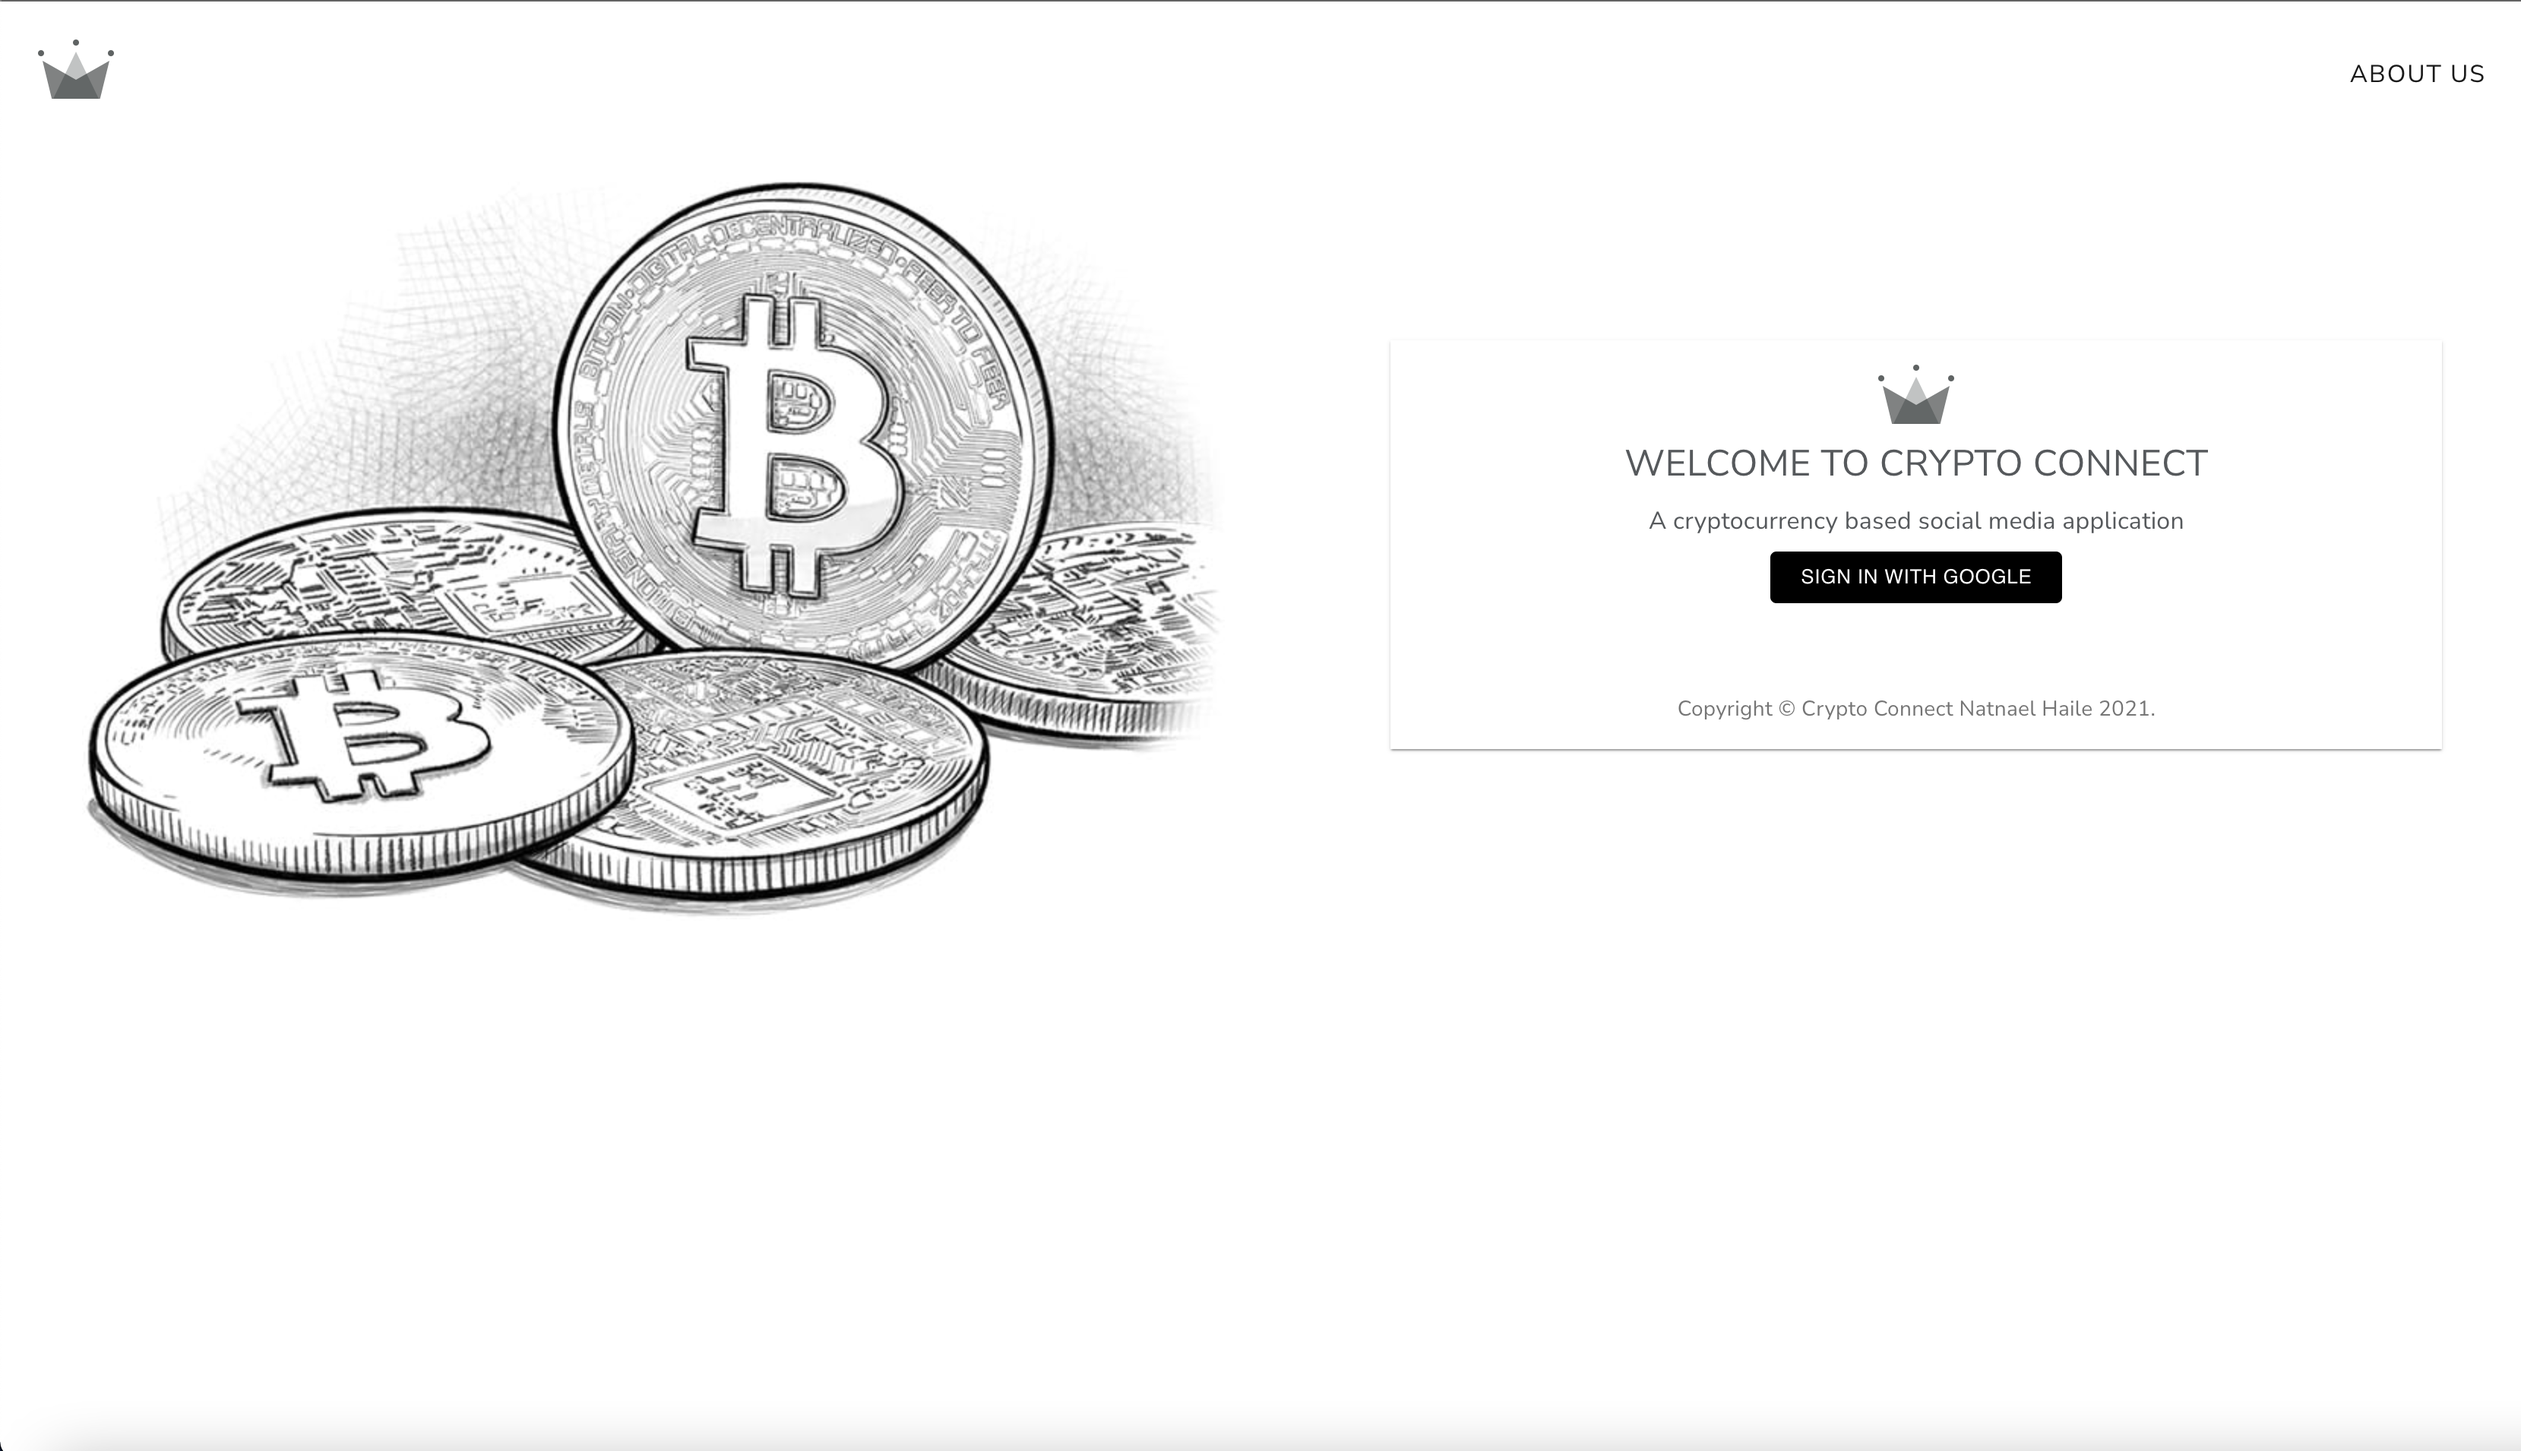
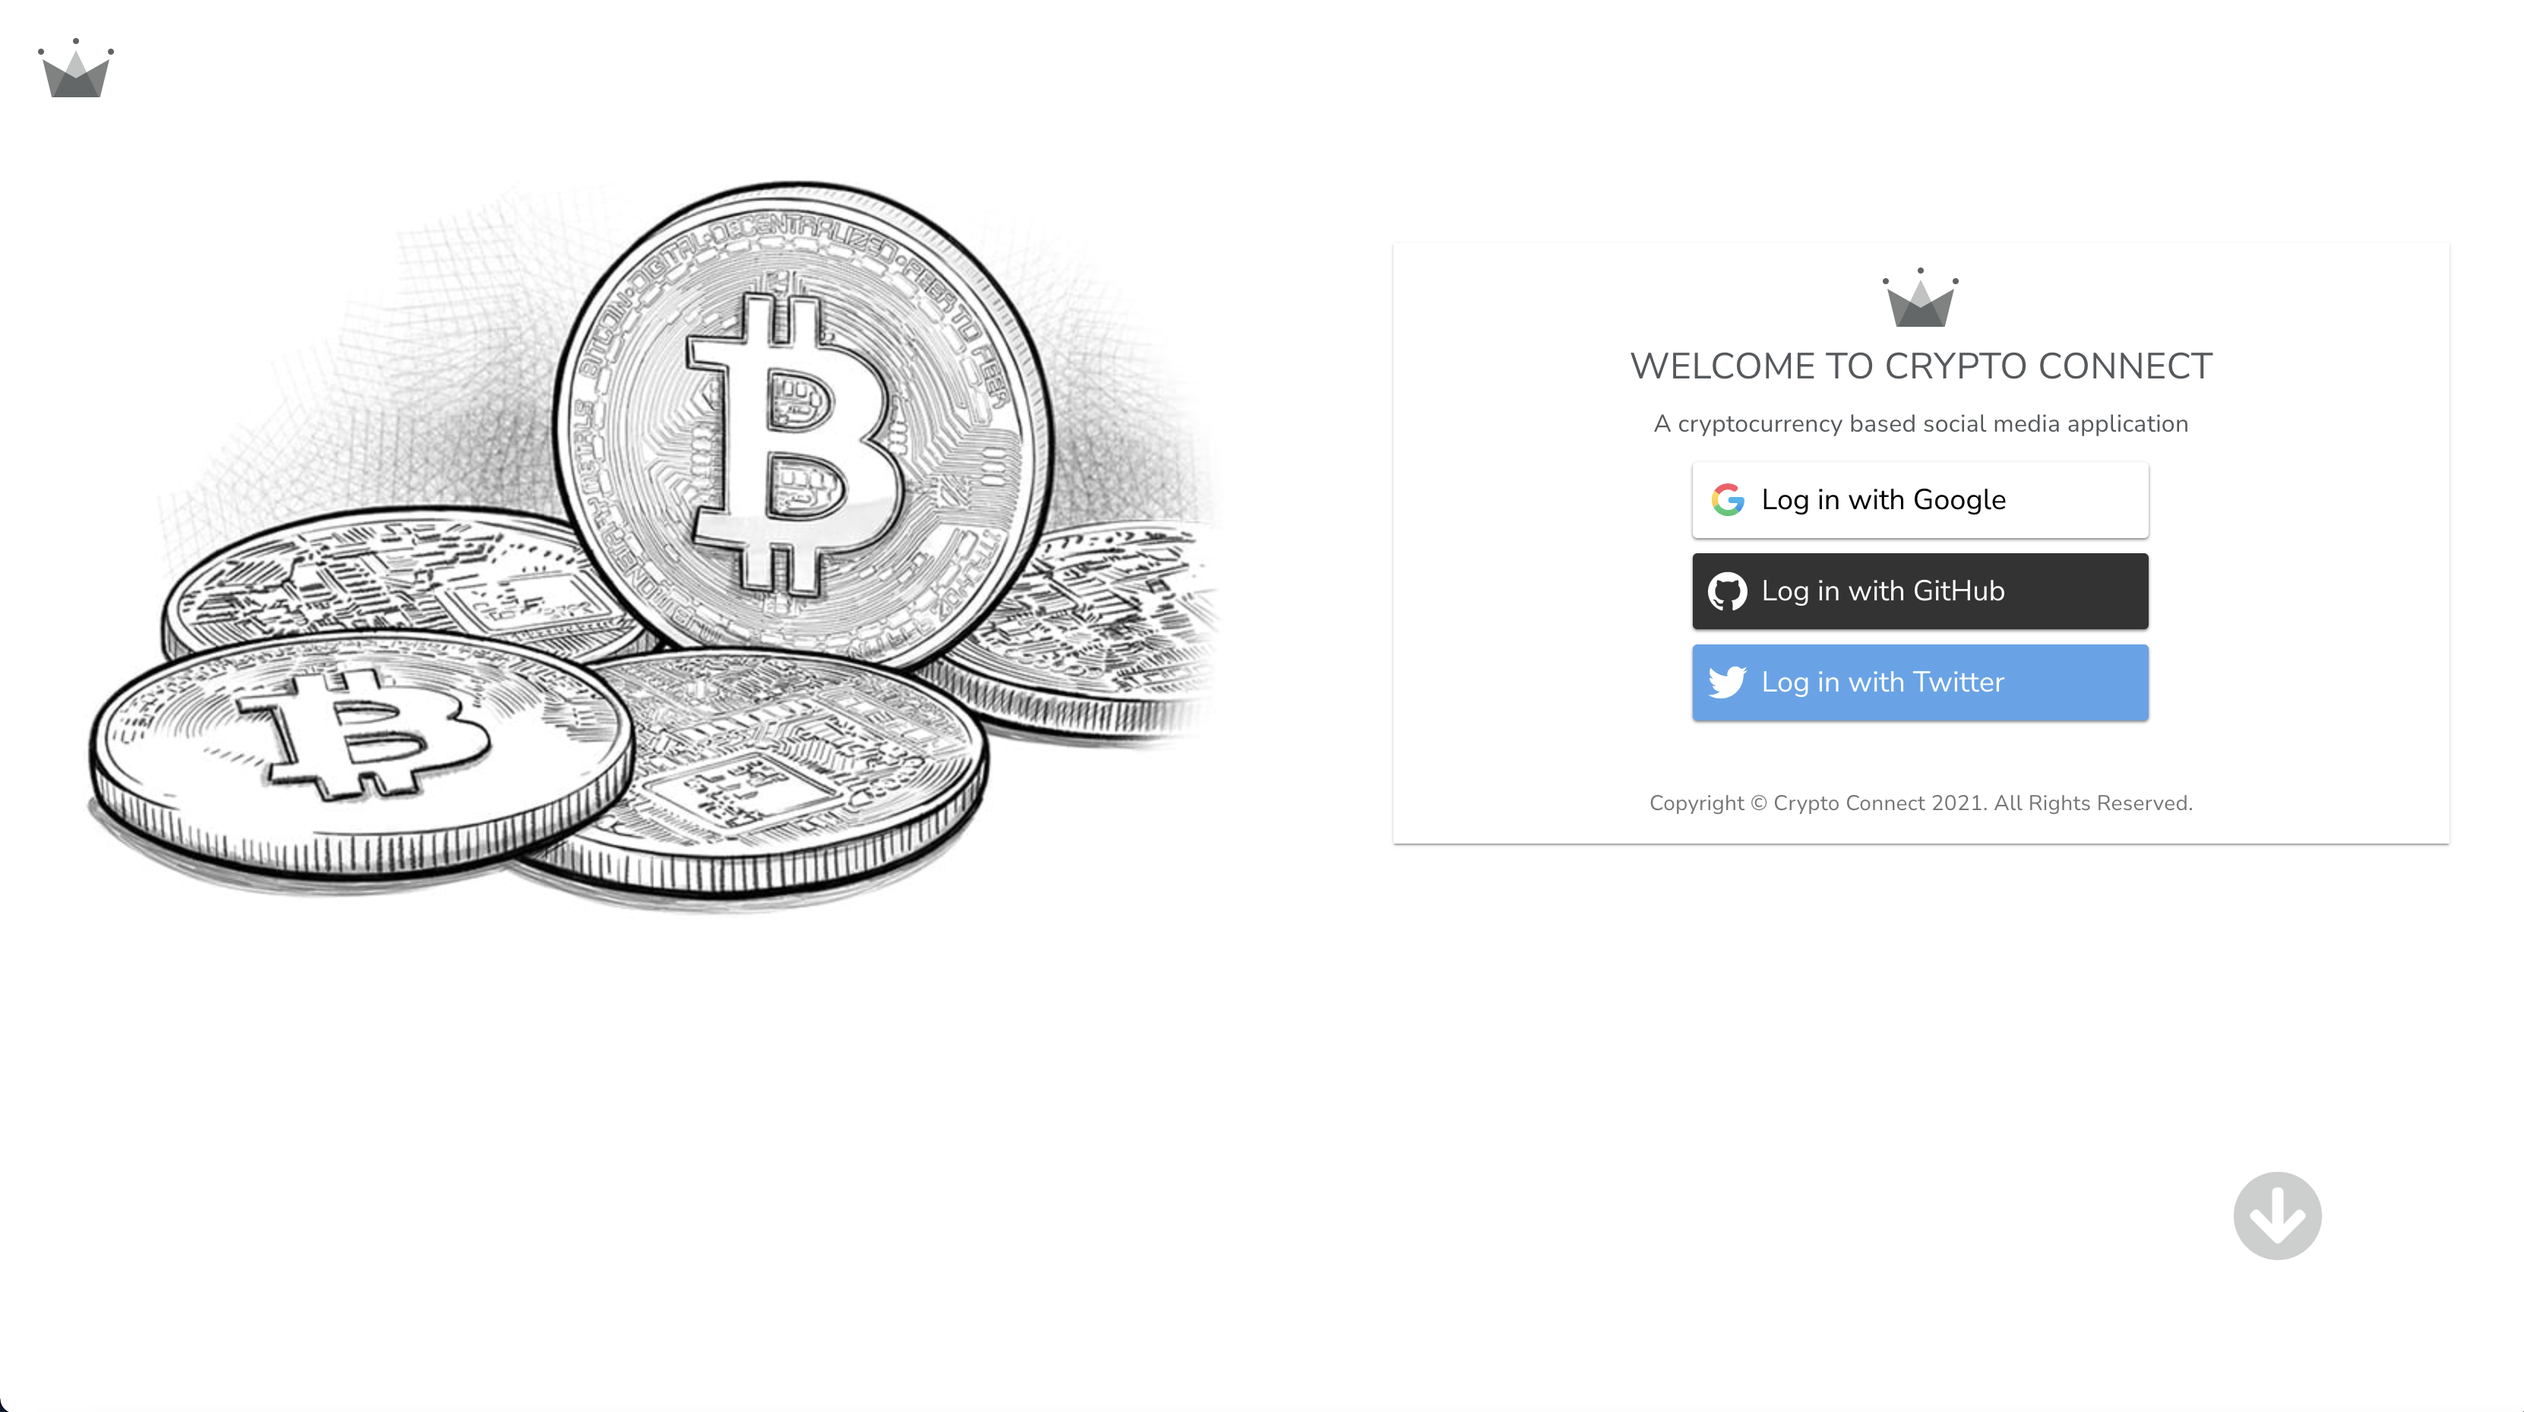
fixed alignment in the feature section

diff --git a/src/components/AboutUs/about-us.component.tsx b/src/components/AboutUs/about-us.component.tsx
@@ -7,7 +7,7 @@ import { ImageContainer } from './about-us.styles';
 
 const useStyles = makeStyles((theme) => ({
     root: {
-        marginBottom: '200px',
+        marginBottom: '100px',
         marginTop: '3rem',
         display: "flex",
         justifyContent: "center"
@@ -15,13 +15,32 @@ const useStyles = makeStyles((theme) => ({
     paper: {
         margin: theme.spacing(2, 6),
     },
+    featureTitle: {
+        fontSize: '2.5rem !Important',
+        fontWeight: 'bolder',
+        color: '#222060',
+        marginBottom: '1rem',
+        fontFamily: 'inherit',
+        textAlign: 'center',
+        "@media (max-width: 800px)": {
+            fontSize: '1.9rem !Important'
+        }
+    },
+    featureText: {
+        lineHeight: 2,
+        padding: '10px',
+        fontFamily: 'inherit',
+        textAlign: 'left',
+        "@media (max-width: 800px)": {
+            fontSize: '0.8rem'
+        }
+    }
 }))
 
 const AboutUsPage = () => {
     const classes = useStyles();
     return (
-        <section style={{ marginTop: '500px' }}>
-            <Typography sx={{ fontSize: '3rem !Important', fontWeight: 800 }} mb='2rem' fontFamily='inherit' textAlign='center'>FEATURES</Typography>
+        <section style={{ marginTop: '400px' }}>
             <Box style={{ display: 'flex', flexDirection: 'row', justifyContent: "space-around" }}>
                 <Box>
                     <Grid container component="main" className={classes.root}>
@@ -35,14 +54,15 @@ const AboutUsPage = () => {
                                 square
                                 sx={{ margin: '20px', padding: '20px', width: '500px', display: "flex", flexDirection: "column" }}
                             >
-                                <Typography fontFamily='inherit' textAlign='left' sx={{ padding: '10px' }} >▹ USER AUTHENTICATION USING GOOGLE</Typography>
-                                <Typography fontFamily='inherit' textAlign='left' sx={{ padding: '10px' }} >▹ PERSONALIZED USER PROFILE</Typography>
-                                <Typography fontFamily='inherit' textAlign='left' sx={{ padding: '10px' }} >▹ POSTS / COMMENTS / LIKES / DISLIKES</Typography>
-                                <Typography fontFamily='inherit' textAlign='left' sx={{ padding: '10px' }} >▹ SHARE POSTS AND TWEETS</Typography>
-                                <Typography fontFamily='inherit' textAlign='left' sx={{ padding: '10px' }} >▹ SEND MESSAGES</Typography>
-                                <Typography fontFamily='inherit' textAlign='left' sx={{ padding: '10px' }} >▹ FOLLOW USERS</Typography>
-                                <Typography fontFamily='inherit' textAlign='left' sx={{ padding: '10px', lineHeight: '2rem' }} >▹ CREATE PERSONALIZED CRYPTOCURRENCY PORTFOLIO</Typography>
-                                <Typography fontFamily='inherit' textAlign='left' sx={{ padding: '10px' }} >▹ REAL-TIME CRYPTO PRICING, TWEETS ABOUT CRYPTO HOLDING AND OTHER CRYPTO INFO</Typography>
+                                <Typography className={classes.featureTitle}>FEATURES</Typography>
+                                <Typography className={classes.featureText}>▹ USER AUTHENTICATION USING GOOGLE, GITHUB, TWITTER</Typography>
+                                <Typography className={classes.featureText}>▹ PERSONALIZED USER PROFILE</Typography>
+                                <Typography className={classes.featureText}>▹ POSTS / COMMENTS / LIKES / DISLIKES</Typography>
+                                <Typography className={classes.featureText}>▹ SHARE POSTS AND TWEETS</Typography>
+                                <Typography className={classes.featureText}>▹ SEND MESSAGES</Typography>
+                                <Typography className={classes.featureText}>▹ FOLLOW USERS</Typography>
+                                <Typography className={classes.featureText}>▹ CREATE PERSONALIZED CRYPTOCURRENCY PORTFOLIO</Typography>
+                                <Typography className={classes.featureText}>▹ REAL-TIME CRYPTO PRICING, TWEETS ABOUT CRYPTO HOLDING AND OTHER CRYPTO INFO</Typography>
                             </Grid>
                         </Box>
                     </Grid>
@@ -52,10 +72,6 @@ const AboutUsPage = () => {
                 </ImageContainer>
             </Box>
         </section>
-
-
-
-
     )
 }
 

diff --git a/src/components/SignIn/sign-in.component.tsx b/src/components/SignIn/sign-in.component.tsx
@@ -17,7 +17,7 @@ function Copyright() {
   return (
     <Typography style={{ fontFamily: 'inherit' }} variant="body2" color="textSecondary" align="center">
       {"Copyright © Crypto Connect "}
-      {new Date().getFullYear() }
+      {new Date().getFullYear()}
       {". All Rights Reserved."}
     </Typography>
   );
@@ -25,10 +25,13 @@ function Copyright() {
 
 const useStyles = makeStyles((theme) => ({
   root: {
-    marginTop: '40px',
+    marginTop: '120px',
     display: "flex",
     alignItems: "center",
     justifyContent: "space-around",
+    "@media (max-width: 1000px)": {
+      marginTop: "40px"
+    }
   },
   paper: {
     margin: theme.spacing(2, 6),
@@ -89,13 +92,13 @@ const SignIn = () => {
               <Typography className={classes.textFont} style={{ marginTop: '0.5rem', fontSize: '1.5rem' }} >
                 WELCOME TO CRYPTO CONNECT
               </Typography>
-              <Typography className={classes.textFont} style={{ marginTop: '0.5rem', fontSize: '1rem' }}>
+              <Typography className={classes.textFont} style={{ marginTop: '0.5rem', fontSize: '1.2rem' }}>
                 A cryptocurrency based social media application
               </Typography>
               <form className={classes.form} noValidate>
-              <GoogleLoginButton style={{ width: '300px'}} onClick={signInWithGoogle} />
-              <GithubLoginButton style={{ width: '300px'}} onClick={signInWithGithub} />
-              <TwitterLoginButton style={{ width: '300px'}} onClick={signInWithTwitter} />
+                <GoogleLoginButton style={{ width: '300px' }} onClick={signInWithGoogle} />
+                <GithubLoginButton style={{ width: '300px' }} onClick={signInWithGithub} />
+                <TwitterLoginButton style={{ width: '300px' }} onClick={signInWithTwitter} />
                 <Box mt={5}>
                   <Copyright />
                 </Box>
@@ -105,12 +108,8 @@ const SignIn = () => {
         </Grid>
         <ScrollArrow />
       </div>
-      {/* <Fade in={true} timeout={1000}>
-        <> */}
-          <AboutUsPage />
-          <Footer />
-        {/* </>
-      </Fade> */}
+      <AboutUsPage />
+      <Footer />
     </>
   );
 }

diff --git a/src/firebase/firebase.utils.jsx b/src/firebase/firebase.utils.jsx
@@ -21,19 +21,25 @@ export const auth = firebase.auth();
 const provider = new firebase.auth.GoogleAuthProvider();
 // We want to trigger the google pop whenever we use the GoogleAuthProvider
 provider.setCustomParameters({ prompt: "select_account" });
-export const signInWithGoogle = () => auth.signInWithPopup(provider);
+export const signInWithGoogle = () => auth.signInWithPopup(provider).catch(function (error) {
+  console.error(error);
+});
 
 //GITHUB
 const providerTwo = new firebase.auth.GithubAuthProvider();
 // We want to trigger the google pop whenever we use the GoogleAuthProvider
 providerTwo.setCustomParameters({ prompt: "select_account" });
-export const signInWithGithub = () => auth.signInWithPopup(providerTwo);
+export const signInWithGithub = () => auth.signInWithPopup(providerTwo).catch(function (error) {
+  console.error(error);
+});
 
 //TWITTER
 const providerThree = new firebase.auth.TwitterAuthProvider();
 // We want to trigger the google pop whenever we use the GoogleAuthProvider
 providerThree.setCustomParameters({ prompt: "select_account" });
-export const signInWithTwitter = () => auth.signInWithPopup(providerThree);
+export const signInWithTwitter = () => auth.signInWithPopup(providerThree).catch(function (error) {
+  console.error(error);
+});
 
 export const createUserProfileDocument = async (userAuth, additionalData) => {
   //If the userAuth object doesn't exist, we don't want to run the function

diff --git a/src/components/AboutUs/about-us.styles.tsx b/src/components/AboutUs/about-us.styles.tsx
@@ -1,6 +1,7 @@
 import styled from "styled-components";
 
 export const ImageContainer = styled.div`
+  margin-top: 3rem;
   @media (max-width: 1200px) {
     display: none;
   }
